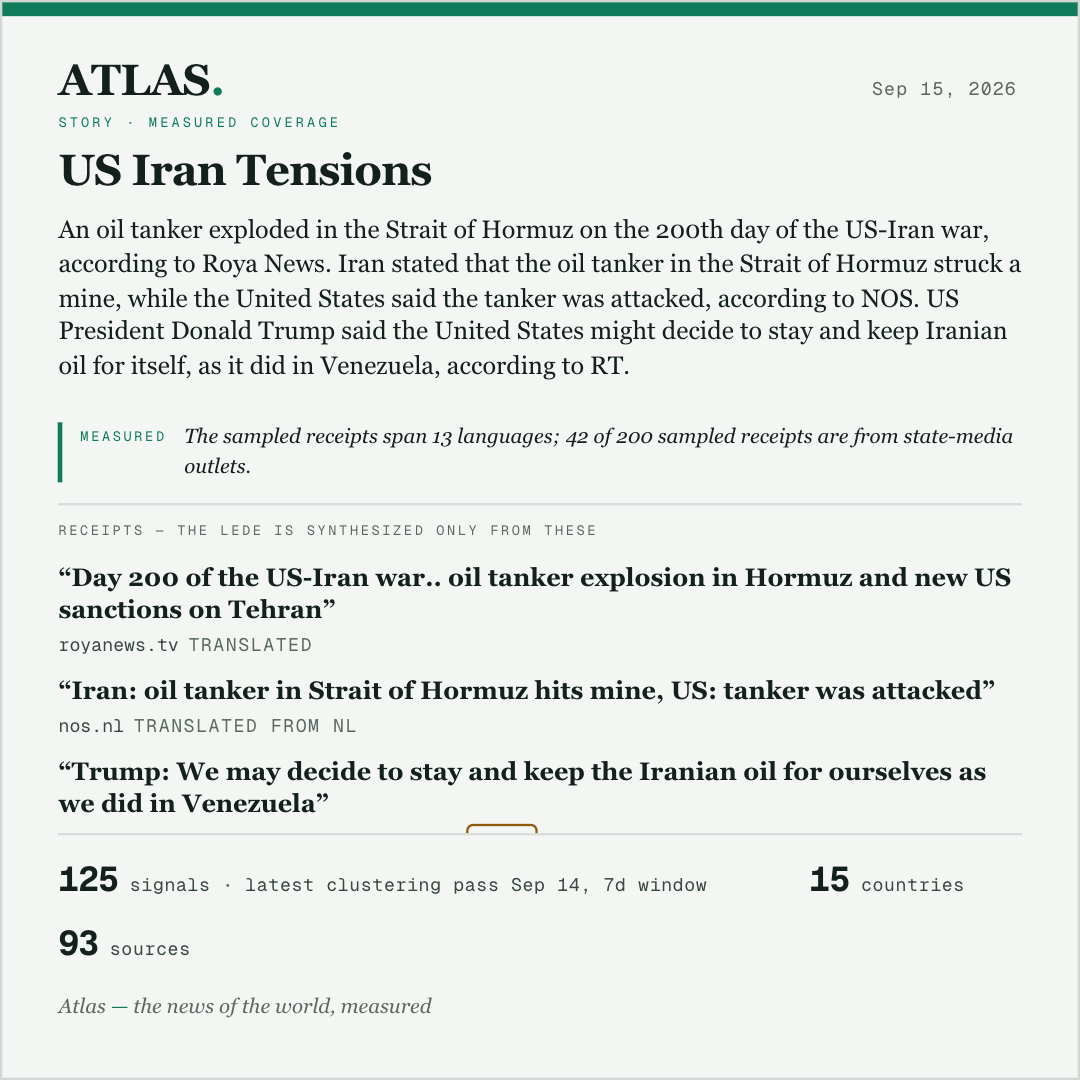
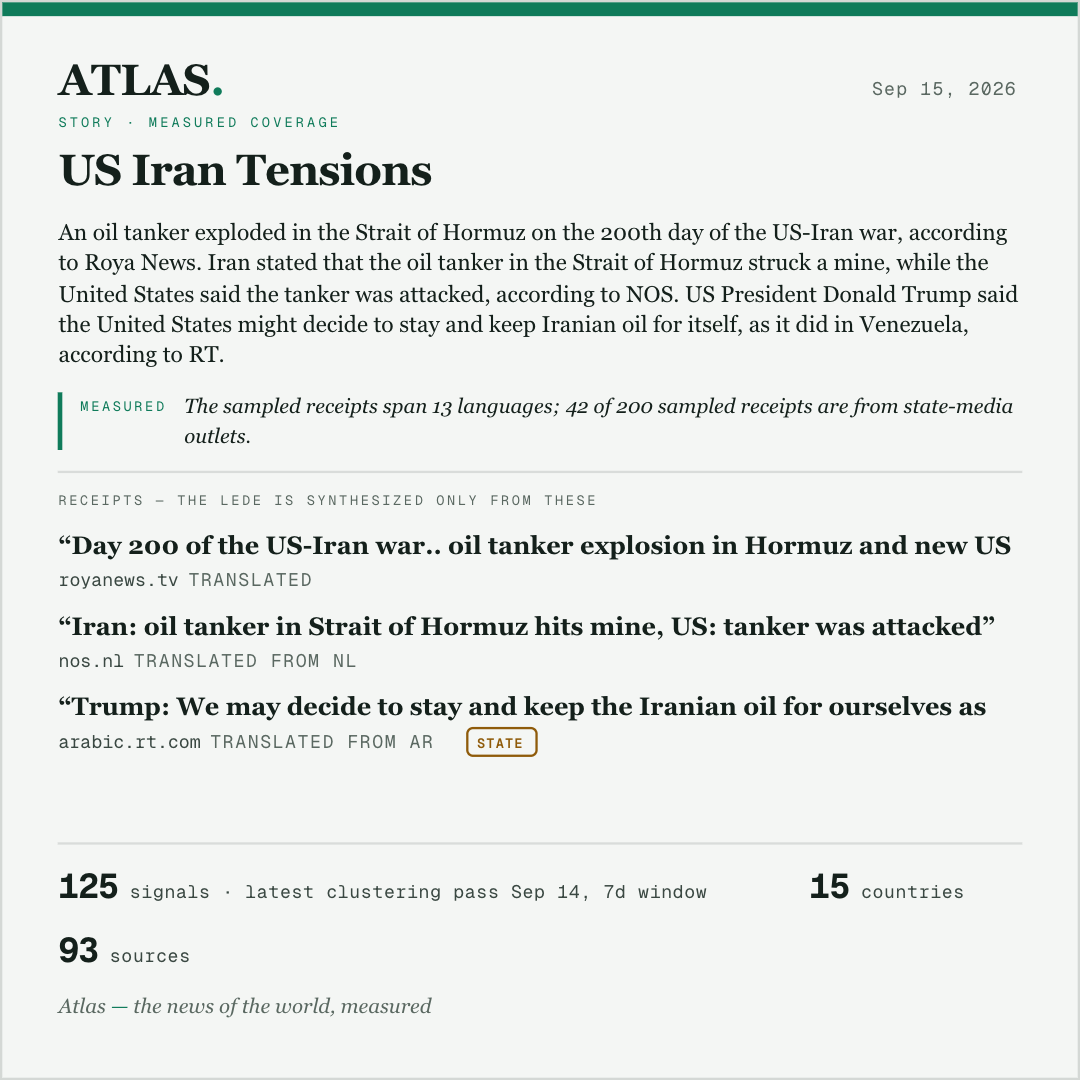
docs(campaign): paquete del post #1 — Irán hoy, Ceuta el jueves; cards 1080×1350/1080 reales del kit, texto, primer comentario, evidencia del link

diff --git a/docs/campaign/posts/2026-09-15/README.md b/docs/campaign/posts/2026-09-15/README.md
@@ -1,0 +1,149 @@
+# Post #1 — martes 2026-09-15 · paquete listo para publicar
+
+Dos historias producidas con el kit v2.2 en prod (fixes de la revisión ya
+desplegados). **Recomendación: publicar hoy IRÁN; Ceuta el jueves 17 (o el
+martes 22).** Por qué Irán primero: es la historia más grande del mundo esta
+semana, el card lleva **13 idiomas · 42 de 200 recibos de prensa estatal** —
+un número que nadie más en LinkedIn puede publicar — y el trío de recibos
+(Jordania · Países Bajos · RT) demuestra la tesis "mismo hecho, tres
+versiones" sin explicarla. Ceuta es más fuerte para red hispanohablante;
+va segunda para no gastar las dos mejores el mismo día.
+
+Todo lo de abajo salió del kit: ninguna frase del lede fue editada a mano
+(cada una está quote-checked contra su recibo); las preguntas de cierre las
+escribí yo en tu voz — cámbialas si no suenan a ti.
+
+---
+
+## A · IRÁN — `US Iran Tensions` (dt-20497)
+
+### Imagen
+`iran-portrait-1080x1350.png` (principal). Alternativa: `iran-square-1080x1080.png`.
+Solo UNA imagen: el card. (Un post de 2 imágenes vale la pena solo si la
+segunda aporta algo distinto — p. ej. screenshot del mapa de calor de la
+historia. Opcional.)
+
+### Texto del post (copy-paste)
+
+```
+An oil tanker exploded in the Strait of Hormuz on the 200th day of the US-Iran war, according to Roya News. Iran stated that the oil tanker in the Strait of Hormuz struck a mine, while the United States said the tanker was attacked, according to NOS. US President Donald Trump said the United States might decide to stay and keep Iranian oil for itself, as it did in Venezuela, according to RT.
+
+Measured: The sampled receipts span 13 languages; 42 of 200 sampled receipts are from state-media outlets.
+
+Measured coverage: 125 signals (latest clustering pass Sep 14, 7d window) · 15 countries · 93 sources (distinct outlets in the sampled receipts).
+
+Receipts — the lede above is synthesized only from these, quote-checked:
+• “Day 200 of the US-Iran war.. oil tanker explosion in Hormuz and new US sanctions on Tehran” — royanews.tv (translated)
+• “Iran: oil tanker in Strait of Hormuz hits mine, US: tanker was attacked” — nos.nl (translated from nl)
+• “Trump: We may decide to stay and keep the Iranian oil for ourselves as we did in Venezuela” — arabic.rt.com (translated from ar) — STATE MEDIA
+
+Story on Atlas: US Iran Tensions — measurement, not opinion.
+
+Day 200, says a Jordanian newsroom. Washington and Tehran cannot agree on whether a tanker hit a mine. Which of these three would you read first — and why that one?
+
+#OSINT #MediaAnalysis #Hormuz
+```
+
+Hook visible en móvil (primeros ~140 chars): *"An oil tanker exploded in
+the Strait of Hormuz on the 200th day of the US-Iran war, according to Roya
+News."* — número + lugar + fuente, sin saludo.
+
+### Primer comentario (el link vive AQUÍ, no en el post)
+
+```
+Read the full measured story on Atlas (free): https://observatory-global.vercel.app/app?theme=dynamic-topic-20497&entry=linkedin&utm_source=linkedin&utm_medium=organic&utm_campaign=sow-2026-w38&utm_content=dynamic-topic-20497
+```
+
+---
+
+## B · CEUTA — `Ceuta Migrant Crisis` (dt-18062) — jueves 17 o martes 22
+
+Regenerar desde el kit el día que se publique (los números cambian); esta
+es la salida de hoy para revisar forma y curación.
+
+### Imagen
+`ceuta-portrait-1080x1350.png` (principal) · `ceuta-square-1080x1080.png`.
+
+### Texto del post
+
+```
+Spain says more than 5,300 migrants have left Ceuta for Morocco. Morocco's government states that Rabat was not involved in the entry into Ceuta, according to Observador. El País reports disarray in the ranks of the PSOE after the political management of the Ceuta crisis.
+
+Measured: The sampled receipts span 7 languages; 2 of 200 sampled receipts are from state-media outlets.
+
+Measured coverage: 9 countries · 70 sources (distinct outlets in the sampled receipts).
+
+Receipts — the lede above is synthesized only from these, quote-checked:
+• “Spain says more than 5,300 migrants have left Ceuta for Morocco” — africanews.com (en)
+• “Confusion in the ranks of the PSOE after the political management of the Ceuta crisis: "If we tried to get out of this, we have gotten muddier"” — elpais.com (translated from es)
+• “Morocco: Rabat was not involved in the entry into Ceuta” — observador.pt (translated from pt)
+
+Story on Atlas: Ceuta Migrant Crisis — measurement, not opinion.
+
+The Moroccan press calls this place 'occupied Sebta'. Not one of those outlets is in our sample yet — we measure what we ingest, and we say what we miss. Which outlet would you add first?
+
+#OSINT #MediaAnalysis #Ceuta
+```
+
+Curación: africanews (panafricano, en) · El País (es) · Observador (pt) —
+tres geografías, tres idiomas, tres ángulos (retornos / política interna /
+la negación marroquí). La pregunta de cierre nombra lo que Atlas NO tiene
+(prensa marroquí fr/ar) — es el post más honesto que podemos hacer y pide
+respuestas concretas (nombres de outlets).
+
+### Primer comentario
+
+```
+Read the full measured story on Atlas (free): https://observatory-global.vercel.app/app?theme=dynamic-topic-18062&entry=linkedin&utm_source=linkedin&utm_medium=organic&utm_campaign=sow-2026-w38&utm_content=dynamic-topic-18062
+```
+(si va el martes 22, el kit generará `sow-2026-w39` — usar el del kit.)
+
+---
+
+## C · Cómo publicarlo (10 minutos)
+
+1. **08:30–09:30 COT** (= 09:30 ET / 15:30 CET). Martes/jueves.
+2. **Desde tu perfil personal**, no desde la página Atlas.
+3. Nuevo post → adjunta `iran-portrait-1080x1350.png` → pega el texto de A
+   tal cual (LinkedIn respeta los saltos de línea). Revisa que el hook sea
+   la primera línea. Sin link. ≤3 hashtags al final.
+4. Publica. **Inmediatamente** abre los comentarios y pega el primer
+   comentario (el link). Fíjalo si LinkedIn lo permite ("Pin comment").
+5. **90 minutos de guardia**: responde TODO comentario (mejor <15 min);
+   responde también a las respuestas. Nada de pedirle likes a nadie.
+6. **+24 h**: repost desde la página Atlas (con un comentario tuyo de una
+   línea). Nunca el mismo día.
+7. **Día 7 (lunes 22)**: LinkedIn analytics del post → fila 1 de la bitácora
+   (`docs/campaign/2026-09-linkedin-calendar.md` §5) +
+   `cd backend && python scripts/campaign_acquisition_report.py --days 8 --campaign sow-2026-w38`.
+
+## D · El link — lo que dice la evidencia (investigación 11-sep, fuentes en el calendario §7)
+
+- **Penalización al link en el CUERPO: real.** De −18,8 % (mediana, van der
+  Blom, 1,3 M posts) a −40/60 % según la fuente. LinkedIn nunca lo confirmó
+  oficialmente; su explicación pública es que rankea por "dwell"/relevancia,
+  no por formato. Consenso práctico: no pongas el link en el cuerpo.
+- **Link en el PRIMER COMENTARIO: disputado en 2026.** Una escuela (Gromming)
+  dice que sigue funcionando (−5/10 % vs −40/50 %). Otra (van der Blom /
+  Goodman) dice que LinkedIn ya detecta los "bridge posts" ("link abajo 👇")
+  y que los link-comments pueden costar hasta −80 %. **Nadie tiene datos
+  controlados.** Editar el post para meter el link después de que agarró
+  tracción: reportado como penalizado.
+- **Nuestra decisión: A/B en los 6 primeros posts.** Impares (hoy) = link
+  en primer comentario. Pares = SIN link en post ni comentario; el link vive
+  en tu sección *Featured* y la última línea dice "story on Atlas — link in
+  my profile". Se decide al post 6 con las columnas `clics` y `arrived` de la
+  bitácora. El texto del post NO menciona el comentario ("link below" es
+  exactamente el patrón castigado).
+- Rutas sin penalización si el A/B sale mal: documento/carrusel PDF con el
+  argumento dentro, o Newsletter de LinkedIn (links ilimitados).
+
+## E · Qué cambió en el kit hoy (por la revisión del 14-sep)
+
+Pool por relevancia al label + buscador (Ceuta pasó de 6/30 a 52/60
+on-story; Irán 50/60 + 10 recibos en árabe/ruso/coreano que antes caían del
+corte) · traducción con contexto de la historia ("tiendas" → *tents*, no
+*shops*; caché re-sellada) · edad de la etiqueta visible ("umbrella — sin
+veredicto propio" hoy en ambas) · gate anti-frases-huérfanas · "N signals"
+omitido cuando contradice a "N sources" · hallazgo medido como gancho
+tipográfico del card · PNG a 1080×1350 exactos.
